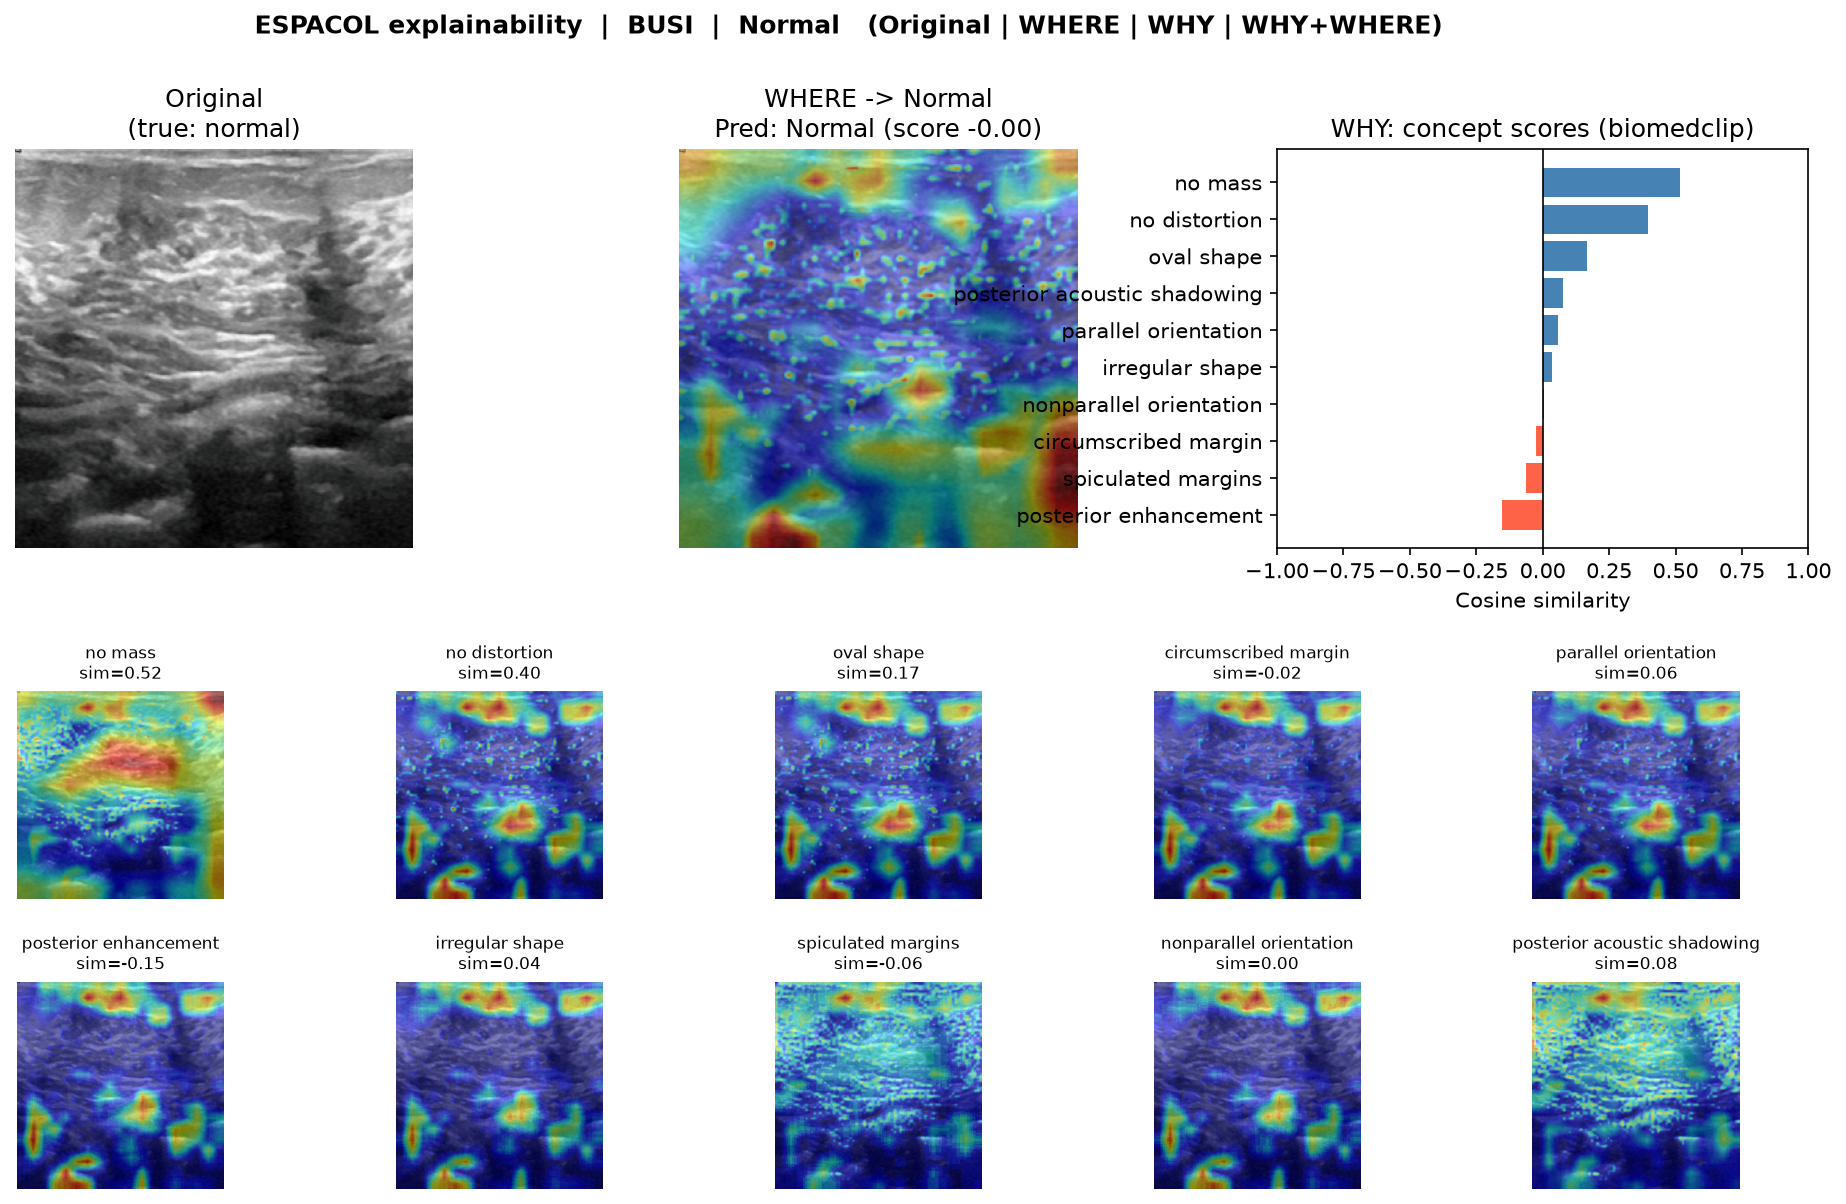
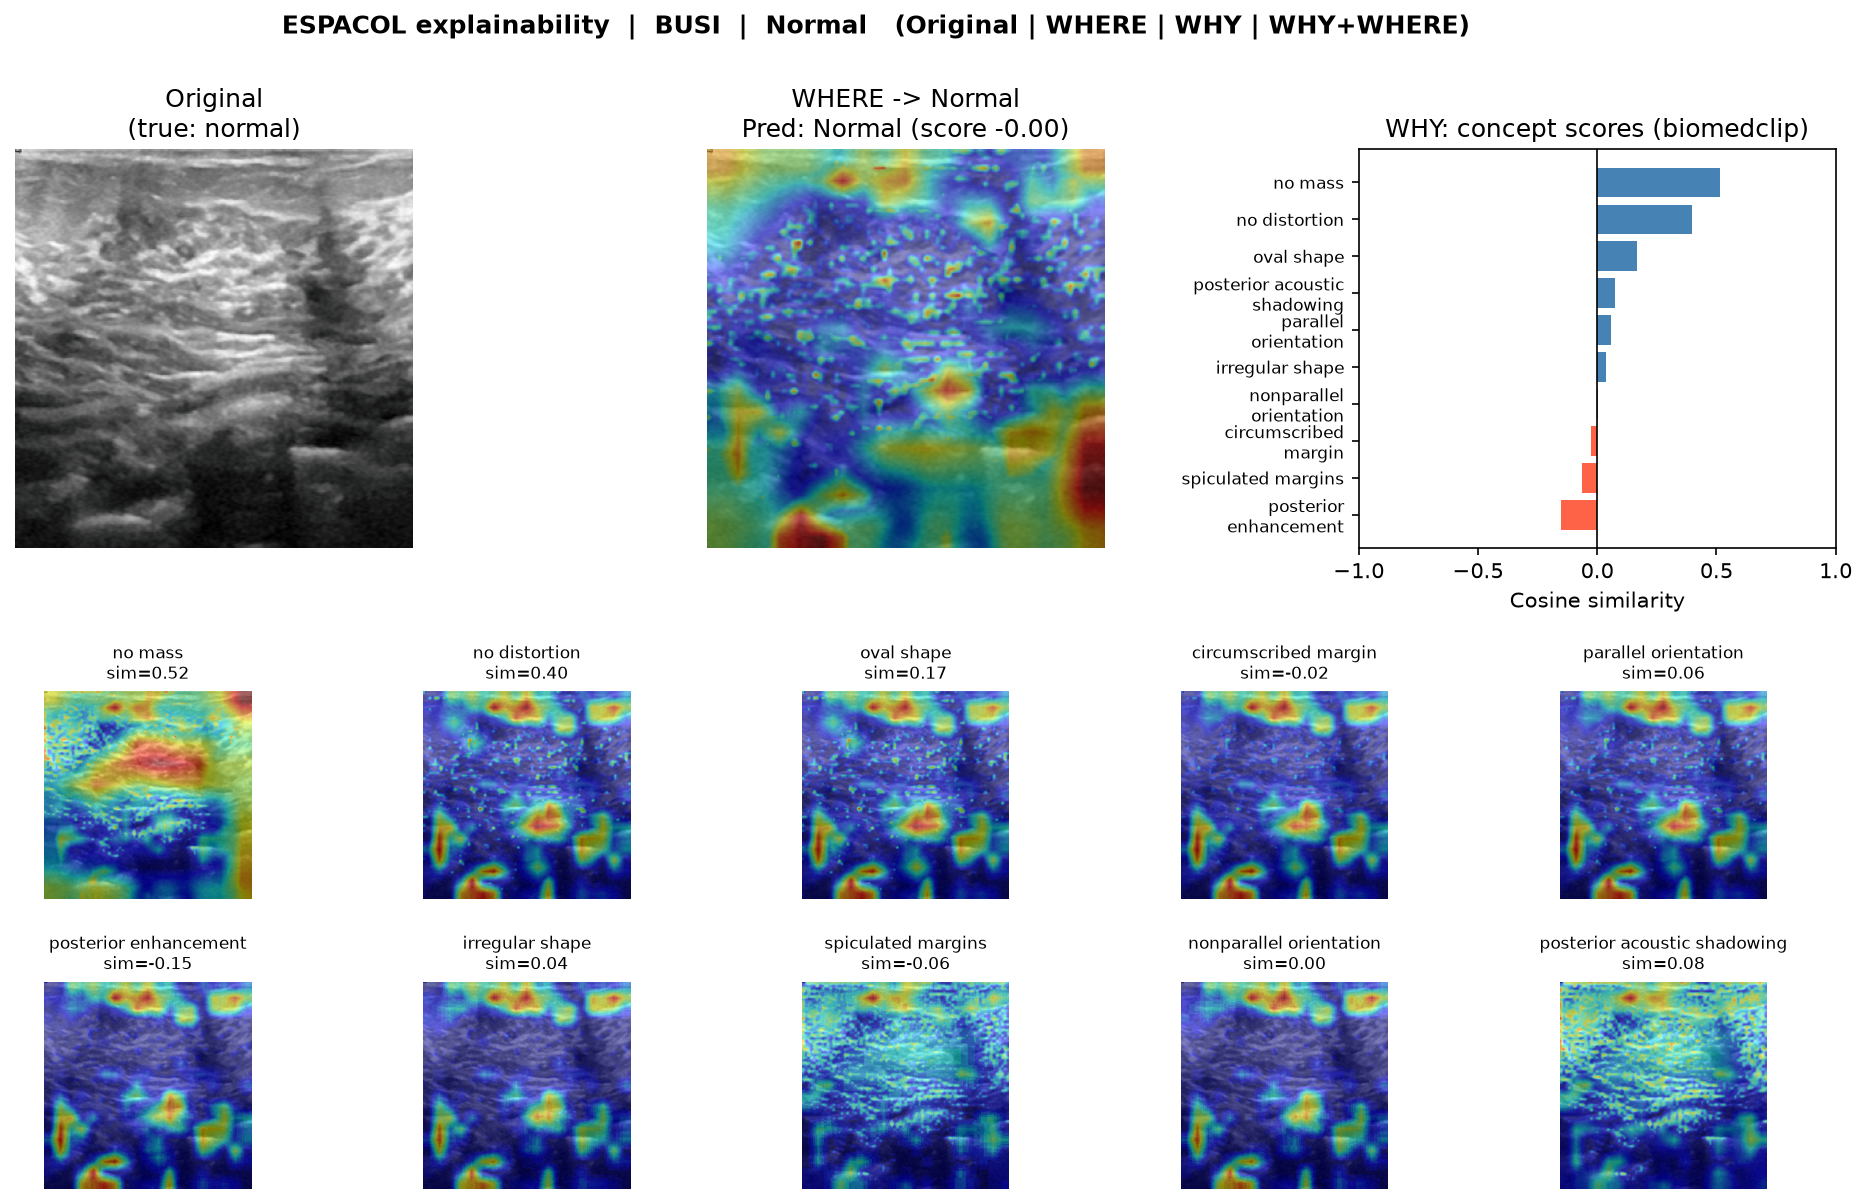
Fix WHY chart layout: wrap concept labels so they don't overlap the WHERE panel
Long y-axis concept names (e.g. 'intraretinal microvascular abnormalities')
leaked left into the adjacent WHERE heatmap. Wrap labels (width 18), shrink the
tick font, and widen the inter-panel gap. Regenerated all demo figures.

diff --git a/Hady/demo_explain_busi.py b/Hady/demo_explain_busi.py
@@ -151,6 +151,7 @@ def _apply_mask(heatmap: np.ndarray, mask: np.ndarray) -> np.ndarray:
 def build_combined_figure(plt, pipeline, image_np, result, true_name, encoder):
     """One figure: top row (Original | WHERE | WHY bars), bottom (WHY+WHERE grid)."""
     import matplotlib.gridspec as gridspec
+    import textwrap
 
     mask = _safe_mask(image_np)
     class_names = pipeline.class_names
@@ -166,7 +167,7 @@ def build_combined_figure(plt, pipeline, image_np, result, true_name, encoder):
     outer = gridspec.GridSpec(2, 1, height_ratios=[1.0, 1.25], hspace=0.32)
 
     # ── top row: 3 panels ─────────────────────────────────────────────────────
-    top = gridspec.GridSpecFromSubplotSpec(1, 3, subplot_spec=outer[0], wspace=0.25)
+    top = gridspec.GridSpecFromSubplotSpec(1, 3, subplot_spec=outer[0], wspace=0.45)
 
     ax_orig = fig.add_subplot(top[0])
     ax_orig.imshow((image_np * 255).astype(np.uint8))
@@ -183,9 +184,11 @@ def build_combined_figure(plt, pipeline, image_np, result, true_name, encoder):
 
     ax_why = fig.add_subplot(top[2])
     colors = ["steelblue" if v >= 0 else "tomato" for v in vals]
-    ax_why.barh(names[::-1], vals[::-1], color=colors[::-1])
+    wrapped = [textwrap.fill(n, 18) for n in names]
+    ax_why.barh(wrapped[::-1], vals[::-1], color=colors[::-1])
     ax_why.axvline(0, color="black", linewidth=0.8)
     ax_why.set_xlim(-1, 1)
+    ax_why.tick_params(axis="y", labelsize=8)
     ax_why.set_xlabel("Cosine similarity")
     ax_why.set_title(f"WHY: concept scores ({encoder})")
 

diff --git a/Hady/demo_explain_dr.py b/Hady/demo_explain_dr.py
@@ -155,6 +155,7 @@ def _apply_mask(heatmap: np.ndarray, mask: np.ndarray) -> np.ndarray:
 def build_combined_figure(plt, pipeline, image_np, result, true_name, encoder):
     """One figure: top row (Original | WHERE | WHY bars), bottom (WHY+WHERE grid)."""
     import matplotlib.gridspec as gridspec
+    import textwrap
 
     mask = _safe_mask(image_np)
     class_names = pipeline.class_names
@@ -170,7 +171,7 @@ def build_combined_figure(plt, pipeline, image_np, result, true_name, encoder):
     outer = gridspec.GridSpec(2, 1, height_ratios=[1.0, 1.25], hspace=0.32)
 
     # ── top row: 3 panels ─────────────────────────────────────────────────────
-    top = gridspec.GridSpecFromSubplotSpec(1, 3, subplot_spec=outer[0], wspace=0.25)
+    top = gridspec.GridSpecFromSubplotSpec(1, 3, subplot_spec=outer[0], wspace=0.45)
 
     ax_orig = fig.add_subplot(top[0])
     ax_orig.imshow((image_np * 255).astype(np.uint8))
@@ -187,9 +188,11 @@ def build_combined_figure(plt, pipeline, image_np, result, true_name, encoder):
 
     ax_why = fig.add_subplot(top[2])
     colors = ["steelblue" if v >= 0 else "tomato" for v in vals]
-    ax_why.barh(names[::-1], vals[::-1], color=colors[::-1])
+    wrapped = [textwrap.fill(n, 18) for n in names]
+    ax_why.barh(wrapped[::-1], vals[::-1], color=colors[::-1])
     ax_why.axvline(0, color="black", linewidth=0.8)
     ax_why.set_xlim(-1, 1)
+    ax_why.tick_params(axis="y", labelsize=8)
     ax_why.set_xlabel("Cosine similarity")
     ax_why.set_title(f"WHY: concept scores ({encoder})")
 
